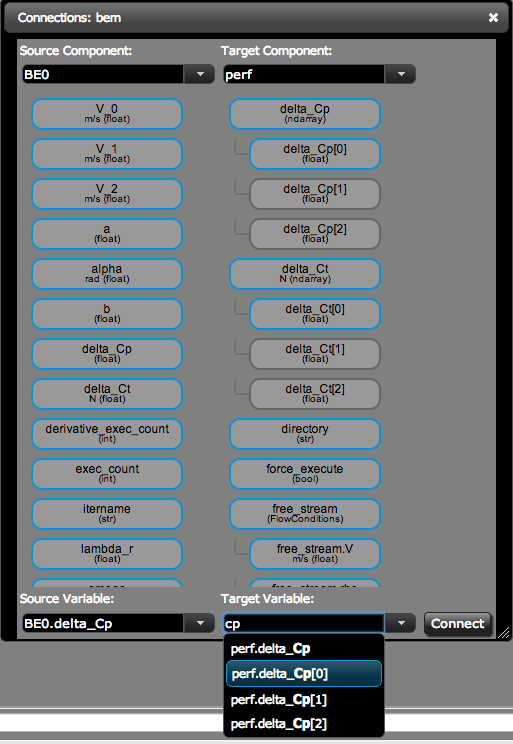
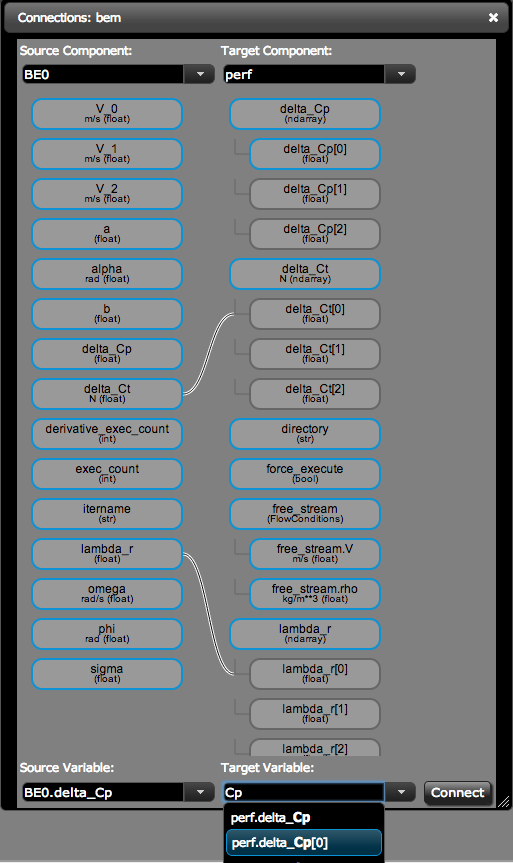
chris finished his edits

diff --git a/docs/bem.rst b/docs/bem.rst
@@ -46,6 +46,79 @@ the calculations are not trivial. However there are a couple of key features to 
     from openmdao.lib.datatypes.api import Float,Int
 
     class BladeElement(Component):
+        """Calculations for a single radial slice of a rotor blade"""
+
+        #inputs
+        a_init = Float(0.2, iotype="in", desc="initial guess for axial inflow factor")
+        b_init = Float(0.01, iotype="in", desc="initial guess for angular inflow factor")
+        rpm = Float(106.952, iotype="in", desc="rotations per minute", low=0, units="min**-1")
+        r = Float(5., iotype="in", desc="mean radius of the blade element", units="m")
+        dr = Float(1., iotype="in", desc="width of the blade element", units="m")
+        twist = Float(1.616, iotype="in", desc="local twist angle", units="rad")
+        chord = Float(.1872796, iotype="in", desc="local chord length", units="m", low=0)
+        B = Int(3, iotype="in", desc="Number of blade elements")
+
+        rho = Float(1.225, iotype="in", desc="air density", units="kg/m**3")
+        V_inf = Float(7, iotype="in", desc="free stream air velocity", units="m/s")
+
+        #outputs
+        V_0 = Float(iotype="out", desc="axial flow at propeller disk", units="m/s")
+        V_1 = Float(iotype="out", desc="local flow velocity", units="m/s")
+        V_2 = Float(iotype="out", desc="angular flow at propeller disk", units="m/s")
+        omega = Float(iotype="out", desc="average angular velocity for element", units="rad/s")
+        sigma = Float(iotype="out", desc="Local solidity")
+        alpha = Float(iotype="out", desc="local angle of attack", units="rad")
+        delta_Ct = Float(iotype="out", desc="section thrust coefficient", units="N")
+        delta_Cp = Float(iotype="out", desc="section power coefficent")
+        a = Float(iotype="out", desc="converged value for axial inflow factor")
+        b = Float(iotype="out", desc="converged value for radial inflow factor")
+        lambda_r = Float(8, iotype="out", desc="local tip speed ratio")
+        phi = Float(1.487, iotype="out", desc="relative flow angle onto blades", units="rad")
+
+        def __init__(self): 
+            super(BladeElement, self).__init__()
+
+            #rough linear interpolation from naca 0012 airfoil data
+            rad = np.array([0., 13., 15, 20, 30])*pi/180
+            self.cl_interp = interp1d(rad, [0, 1.3, .8, .7, 1.1], fill_value=0.001, bounds_error=False)
+
+            rad = np.array([0., 10, 20, 30, 40])*pi/180
+            self.cd_interp = interp1d(rad, [0., 0., 0.3, 0.6, 1.], fill_value=0.001, bounds_error=False)
+
+        def _coeff_lookup(self, i):
+            C_L = self.cl_interp(i)
+            C_D = self.cd_interp(i)    
+            return C_D, C_L
+            
+        def execute(self):    
+            self.sigma = self.B*self.chord / (2* np.pi * self.r)
+            self.omega = self.rpm*2*pi/60.0
+            omega_r = self.omega*self.r
+            self.lambda_r = self.omega*self.r/self.V_inf # need lambda_r for iterates
+
+            result = fsolve(self._iteration, [self.a_init, self.b_init])
+            self.a = result[0]
+            self.b = result[1]
+
+            self.V_0 = self.V_inf - self.a*self.V_inf
+            self.V_2 = omega_r-self.b*omega_r
+            self.V_1 = (self.V_0**2+self.V_2**2)**.5
+
+            q_c = self.B*.5*(self.rho*self.V_1**2)*self.chord*self.dr
+            cos_phi = cos(self.phi)
+            sin_phi = sin(self.phi)
+            C_D, C_L = self._coeff_lookup(self.alpha)
+            self.delta_Ct = q_c*(C_L*cos_phi-C_D*sin_phi)/(.5*self.rho*(self.V_inf**2)*(pi*self.r**2))
+            self.delta_Cp = self.b*(1-self.a)*self.lambda_r**3*(1-C_D/C_L*tan(self.phi))
+
+        def _iteration(self, X):
+            self.phi = np.arctan(self.lambda_r*(1+X[1])/(1-X[0]))
+            self.alpha = pi/2-self.twist-self.phi
+            C_D, C_L = self._coeff_lookup(self.alpha)
+            self.a = 1./(1 + 4.*(np.cos(self.phi)**2)/(self.sigma*C_L*np.sin(self.phi)))
+            self.b = (self.sigma*C_L) / (4* self.lambda_r * np.cos(self.phi)) * (1 - self.a)
+
+            return (X[0]-self.a), (X[1]-self.b)
         
 
         
@@ -99,80 +172,49 @@ that go along with it.
         J = Float(desc="advance ratio")
         #eta = Float(desc="turbine efficiency")
 
-    class BladeElement(Component):
-        """Calculations for a single radial slice of a rotor blade"""
+    class BEMPerf(Component):
+        """collects data from set of BladeElements and calculates aggregate values"""
 
-        #inputs
-        a_init = Float(0.2, iotype="in", desc="initial guess for axial inflow factor")
-        b_init = Float(0.01, iotype="in", desc="initial guess for angular inflow factor")
-        rpm = Float(106.952, iotype="in", desc="rotations per minute", low=0, units="min**-1")
-        r = Float(5., iotype="in", desc="mean radius of the blade element", units="m")
-        dr = Float(1., iotype="in", desc="width of the blade element", units="m")
-        theta = Float(1.616, iotype="in", desc="local pitch angle", units="rad")
-        chord = Float(.1872796, iotype="in", desc="local chord length", units="m", low=0)
-        B = Int(3, iotype="in", desc="Number of blade elements")
+        r = Float(.8, iotype="in", desc="tip radius of the rotor", units="m")
+        rpm = Float(2100, iotype="in", desc="rotations per minute", low=0, units="min**-1")
 
-        rho = Float(1.225, iotype="in", desc="air density", units="kg/m**3")
-        V_inf = Float(7, iotype="in", desc="free stream air velocity", units="m/s")
+        free_stream = Slot(FlowConditions, iotype="in") 
 
-        #outputs
-        V_0 = Float(iotype="out", desc="axial flow at propeller disk", units="m/s")
-        V_1 = Float(iotype="out", desc="local flow velocity", units="m/s")
-        V_2 = Float(iotype="out", desc="angular flow at propeller disk", units="m/s")
-        omega = Float(iotype="out", desc="average angular velocity for element", units="rad/s")
-        sigma = Float(iotype="out", desc="Local solidity")
-        alpha = Float(iotype="out", desc="local angle of attack", units="rad")
-        delta_Ct = Float(iotype="out", desc="section thrust coefficient", units="N")
-        delta_Cp = Float(iotype="out", desc="section power coefficent")
-        a = Float(iotype="out", desc="converged value for axial inflow factor")
-        b = Float(iotype="out", desc="converged value for radial inflow factor")
-        lambda_r = Float(8, iotype="out", desc="local tip speed ratio")
-        phi = Float(1.487, iotype="out", desc="relative flow angle onto blades", units="rad")
+        data = Slot(BEMPerfData, iotype="out")
 
-        def __init__(self): 
-            super(BladeElement, self).__init__()
+        #this lets the size of the arrays vary for different numbers of elements
+        def __init__(self, n=10):
+            super(BEMPerf, self).__init__()
 
-            #rough linear interpolation from naca 0012 airfoil data
-            rad = np.array([0., 13., 15, 20, 30])*pi/180
-            self.cl_interp = interp1d(rad, [0, 1.3, .8, .7, 1.1], fill_value=0.001, bounds_error=False)
+            #needed initialization for VTs
+            self.add('data', BEMPerfData())  
+            self.add('free_stream', FlowConditions())
 
-            rad = np.array([0., 10, 20, 30, 40])*pi/180
-            self.cd_interp = interp1d(rad, [0., 0., 0.3, 0.6, 1.], fill_value=0.001, bounds_error=False)
+            #array size based on number of elements
+            self.add('delta_Ct', Array(iotype='in', desc='thrusts from %d different blade elements'%n,
+                                   default_value=np.ones((n,)), shape=(n,), dtype=Float, units="N"))
+            self.add('delta_Cp', Array(iotype='in', desc='Cp integrant points from %d different blade elements'%n,
+                                   default_value=np.ones((n,)), shape=(n,), dtype=Float))
+            self.add('lambda_r', Array(iotype='in', desc='lambda_r from %d different blade elements'%n,
+                                   default_value=np.ones((n,)), shape=(n,), dtype=Float))      
+                                     
+        def execute(self):
+            self.data = BEMPerfData()  #emtpy the variable tree
 
-        def _coeff_lookup(self, i):
-            C_L = self.cl_interp(i)
-            C_D = self.cd_interp(i)    
-            return C_D, C_L
-            
-        def execute(self):    
-            self.sigma = self.B*self.chord / (2* np.pi * self.r)
-            self.omega = self.rpm*2*pi/60.0
-            omega_r = self.omega*self.r
-            self.lambda_r = self.omega*self.r/self.V_inf # need lambda_r for iterates
+            V_inf = self.free_stream.V
+            rho = self.free_stream.rho
 
-            result = fsolve(self._iteration, [self.a_init, self.b_init])
-            self.a = result[0]
-            self.b = result[1]
+            norm = (.5*rho*(V_inf**2)*(pi*self.r**2))
+            self.data.Ct= np.trapz(self.delta_Ct, x=self.lambda_r)
+            self.data.net_thrust = self.data.Ct*norm
 
-            self.V_0 = self.V_inf + self.a*self.V_inf
-            self.V_2 = omega_r-self.b*omega_r
-            self.V_1 = (self.V_0**2+self.V_2**2)**.5
+            self.data.Cp = np.trapz(self.delta_Cp, x=self.lambda_r) * 8. / self.lambda_r.max()**2
+            self.data.net_power = self.data.Cp*norm*V_inf
 
-            q_c = self.B*.5*(self.rho*self.V_1**2)*self.chord*self.dr
-            cos_phi = cos(self.phi)
-            sin_phi = sin(self.phi)
-            C_D, C_L = self._coeff_lookup(self.alpha)
-            self.delta_Ct = q_c*(C_L*cos_phi-C_D*sin_phi)/(.5*self.rho*(self.V_inf**2)*(pi*self.r**2))
-            self.delta_Cp = self.b*(1-self.a)*self.lambda_r**3*(1-C_D/C_L*tan(self.phi))
+            self.data.J = V_inf/(self.rpm/60.0*2*self.r)
 
-        def _iteration(self, X):
-            self.phi = np.arctan(self.lambda_r*(1+X[1])/(1-X[0]))
-            self.alpha = self.theta - self.phi
-            C_D, C_L = self._coeff_lookup(self.alpha)
-            self.a = 1./(1 + 4.*(np.cos(self.phi)**2)/(self.sigma*C_L*np.sin(self.phi)))
-            self.b = (self.sigma*C_L) / (4* self.lambda_r * np.cos(self.phi)) * (1 - self.a)
-
-            return (X[0]-self.a), (X[1]-self.b)
+            omega = self.rpm*2*pi/60
+            self.data.tip_speed_ratio = omega*self.r/self.free_stream.V
 
 
 The two classes, ``FlowConditions`` and ``BEMPerfData`` both inherit from ``VariableTree``. In OpenMDAO, 
@@ -189,7 +231,7 @@ for any component.
 
 Inside ``FlowConditions``, there are two variables. Just like before, they have a default value, a description, and some 
 units defined. Notably missing, however, is an *iostatus*. When you are defining the VariableTree sub-class, *iostatus* is not yet 
-relevant. When added to a component, it could be specified as an input, and output, or possibly one of each. Iostatus is defined when the class is used as i/o in a component, not before. For our ``BEMPerf`` component, we use an instance of FlowConditions
+relevant. When added to a component, the variable tree *iostatus* as a whole could be specified as input or as output. Iostatus is defined when the class is used as i/o in a component, not before. For our ``BEMPerf`` component, we use an instance of FlowConditions
 called ``free_stream``. 
 
 :: 
@@ -260,7 +302,7 @@ When you're done, it will look like this:
 
 Go ahead and create similar connections for the other two BladeSegment, remembering to increment 
 the array index to *1* and then *2* for each one. 
-As the connections are made, you should see the dateflow react by drawing dependency arrows between
+As the connections are made, you should see the dataflow react by drawing dependency arrows between
 each of the BladeElements and the perf component. These will be black, indicating that there is an 
 explicit data dependency. OpenMDAO strictly enforces explicit connections so that if you tried to set a 
 value into a connected input, you would get an error. Similarly, you can't give a connected input as a parameter 
@@ -268,7 +310,7 @@ to a driver. The driver can not vary that value, since it's explicitly connected
 
 Now, you've connected up your model. You're ready to run it, right? Well, not quite yet. For one thing
 your BladeElement instances all have default values for their inputs. It does not make much sense to have 
-all three of them at the set to the same radius, twist, chord, etc. But lets pretend you set some 
+all three of them set to the same radius, twist, chord, etc. But lets pretend you set some 
 carefully picked values into each of them, just for the sake of argument. So now are you ready to run? Try it. 
 
 Right click on the ``top`` assembly and select ``run`` from the menu. The assembly and the driver will both turn 
@@ -289,11 +331,11 @@ and then tell the assembly to run again. Now, all of the components will actuall
 .. figure:: full_workflow.png
     :align: center
 
-BEM Rotor Assembly as a Component
+BEM Rotor as a Nested Assembly
 ------------------------------------------------------------------------
 
 If you were really designing using BEM to do the aerodynamic design for a wind turbine, then you'd be working with a 
-whole design team. The team would probably want to run your areodynamic analysis as part of a larger model of the actual 
+whole design team. The team would probably want to run your aerodynamic analysis as part of a larger model of the actual 
 wind turbine system. Since OpenMDAO's Assembly class is a sub-class 
 of Component, you can add i/o to an assembly and use it as a component in a larger model. 
 
@@ -354,13 +396,17 @@ VariableTree that holds an additional 2 scalar inputs that deal with the wind co
 operate in. We also pre-defined the three BladeElement components, the BEMPerf component, connected them 
 all up, and added them to the workflow. That way, you don't need to re-do all the connections by hand. 
 
-Create another new project in the OpenMDAO GUI. This time, the first thing you 
-should do is remove the default ``top`` Assembly that is defined automatically. We're going to use the ``BEM`` 
-assembly instead. Right click on ``top`` and select ``remove``. Then filter the Library with ``nrel`` again 
-and create an instance of the ``BEM`` assembly to work with. You can name the new assembly ``top`` again, or any
-other name you want. Your workspace will look like this when your done: 
+Create another new project in the OpenMDAO GUI. Filter the Library with ``nrel`` again 
+and create an instance of the ``BEM`` assembly inside the default ``top`` that is already there. 
+Whe named our instance ``bem``. Your workspace will look like this when you're done: 
 
 .. figure:: bem_workspace.png
+    :align: center
+
+You can click on the small ``+`` in the upper right corner of ``bem`` to see the contents of your 
+newly created assembly. 
+
+.. figure:: bem_workspace_expanded.png
     :align: center
 
 You have an assembly, with i/o and components connected and hooked up to a workflow. But you still need to 
@@ -372,21 +418,47 @@ you can connect the ``rho`` and ``V`` variables from the ``free_stream`` Variabl
 to the corresponding variables in the BladeElement. Repeat that for ``BE1``, ``BE2``, and ``perf``. 
 
 We're almost done, but we still need to deal with chord, radius, and twist. Chord and Radius are pretty straightforward, but if you look at twist carefully you will see a small problem. For the BladeElement, twist is given 
-in radians. But in the BEM assembly, it's defined in degrees. Fortunately, OpenMDAO can easily handle this situation. 
+in radians. But in the BEM assembly, it's defined in degrees. 
+
+Twist in the Rotor Assembly: 
+
+:: 
+
+    twist_tip = Float(93.58, iotype="in", desc="twist angle at the tip radius", units="deg")
+
+Twist in the Blade Element:
+
+::
+
+    twist = Float(1.616, iotype="in", desc="local pitch angle", units="rad")
+
+
+Fortunately, OpenMDAO can easily handle this situation. 
 When you try to connect two variables of different but compatible units, OpenMDAO will convert them for you 
 on the fly. If you try to connect two varaibles with incompatible units, you'll get an error. 
-Give it a shot. Try to connect the *radius_hub* variable from the assembly to *BE0.theta*. You'll get an error. 
-Then try to connect *twist_hub* to *BE0.theta*. That will work just fine. 
+Give it a shot. Try to connect the *radius_hub* variable from the assembly to *BE0.twist*. You'll get an error. 
+Then try to connect *twist_hub* to *BE0.twist*. That will work just fine. 
+
+.. figure:: twist_connection.png
+    :align: center
+
 
 Connecting the hub and tip variables to *BE0* and *BE2* only gets us part of the way there. We still need to 
 deal with *BE1*, or potentially more intermediate BladeSegments if we had them. Lets assume that this rotor 
 has a linear distribution for chord and twist. We'll also space the blade segment radii out linearly from the 
 root to the tip. OpenMDAO provides a utility class for this, called ``LinearDistribution``. If you filter 
 the Library with ``linear``, you'll see it. You can create one called ``twist_dist``. When asked, set the 
-number of elements to 3 and the units to 'deg'. You don't have to specify units on a LinearDistribution, but 
+number of elements to 3 and the units to 'deg' (make sure you add the quotes!). You don't have to specify units on a LinearDistribution, but 
 in this case it's necessary to ensure proper unit conversion. Then you can connect the *twist_hub*
 and *twist_tip* variables from the assembly to the *twist_dist.start* and *twist_dist.end* variables. 
-Now you can connect the elements from the array *twist_dist.output* to *BE0.theta*, *BE1.theta*, and *BE2.theta*. 
+
+.. figure:: assembly_to_twist.png
+    :align: center
+
+Now you can connect the elements from the array *twist_dist.output* to *BE0.twist*, *BE1.twist*, and *BE2.twist*. 
+
+.. figure:: twist_be.png
+    :align: center
 
 Notice that you just connected an item from an array to scalar variable. OpenMDAO allows this type of connection,
 and performs the same kind of units validation that it does for regular scalar to scalar connections. Similarly, 
@@ -395,7 +467,7 @@ we did just that by connecting *free_stream.rho* to *BE0.rho*, *BE1.rho*, and *B
 
 At this point, we're almost done. We still need to add LinearDistribution instances for the chord and radius values. We also 
 have a few more assembly-level connections to make. You might have noticed that the assembly does not have any outputs.
-So far we've only created inputs. We said there were two ways to create assembly level varaibles. The first is to manually 
+So far we've only created inputs. We said there were two ways to create assembly level variables. The first is to manually 
 create them and then issue connections, like we just explored. The second way is to use a passthrough. Right-click on the 
 assembly and select ``Edit Passthroughs`` from the menu. 
 

diff --git a/docs/basic_optimization.rst b/docs/basic_optimization.rst
@@ -85,7 +85,7 @@ You might have noticed that when you added the first parameter to the optimizer,
 the optimizer was varying a value in the ``ad`` component, that it would need to be in the workflow for that driver. So it added ``ad`` to the 
 workflow for you. It's important to remember that OpenMDAO distinguished between the dataflow and the workflow. The dataflow describes which 
 components communicate with others, but it says nothing about when that communication happens. The order of execution is determined by the 
-workflow. Although the dataflow does not define the workflow, it can constraint it. For example, if you have two components `a` and `b`, 
+workflow. Although the dataflow does not define the workflow, it can constrain it. For example, if you have two components `a` and `b`, 
 where `a` has an output connected to the input of `b`, then you must run `a` before `b`.  In most cases, the automatically-created workflow will work just fine.  Just know that if you need to modify the workflow to add a sub-solver loop or introduce some metamodel training, the flexibility is there. 
 
 

diff --git a/docs/bem_design.rst b/docs/bem_design.rst
@@ -48,6 +48,7 @@ it should include in each row of the CSV file. Note that you have to give a list
 are important.
 
 :: 
+
     ['bem.perf.data.tip_speed_ratio','bem.perf.data.Cp','bem.perf.data.Ct']
 
 Now, run the assembly. It will take a minute to finish, since it's running so may cases. When it finishes, click on the ``Files`` tab. 
